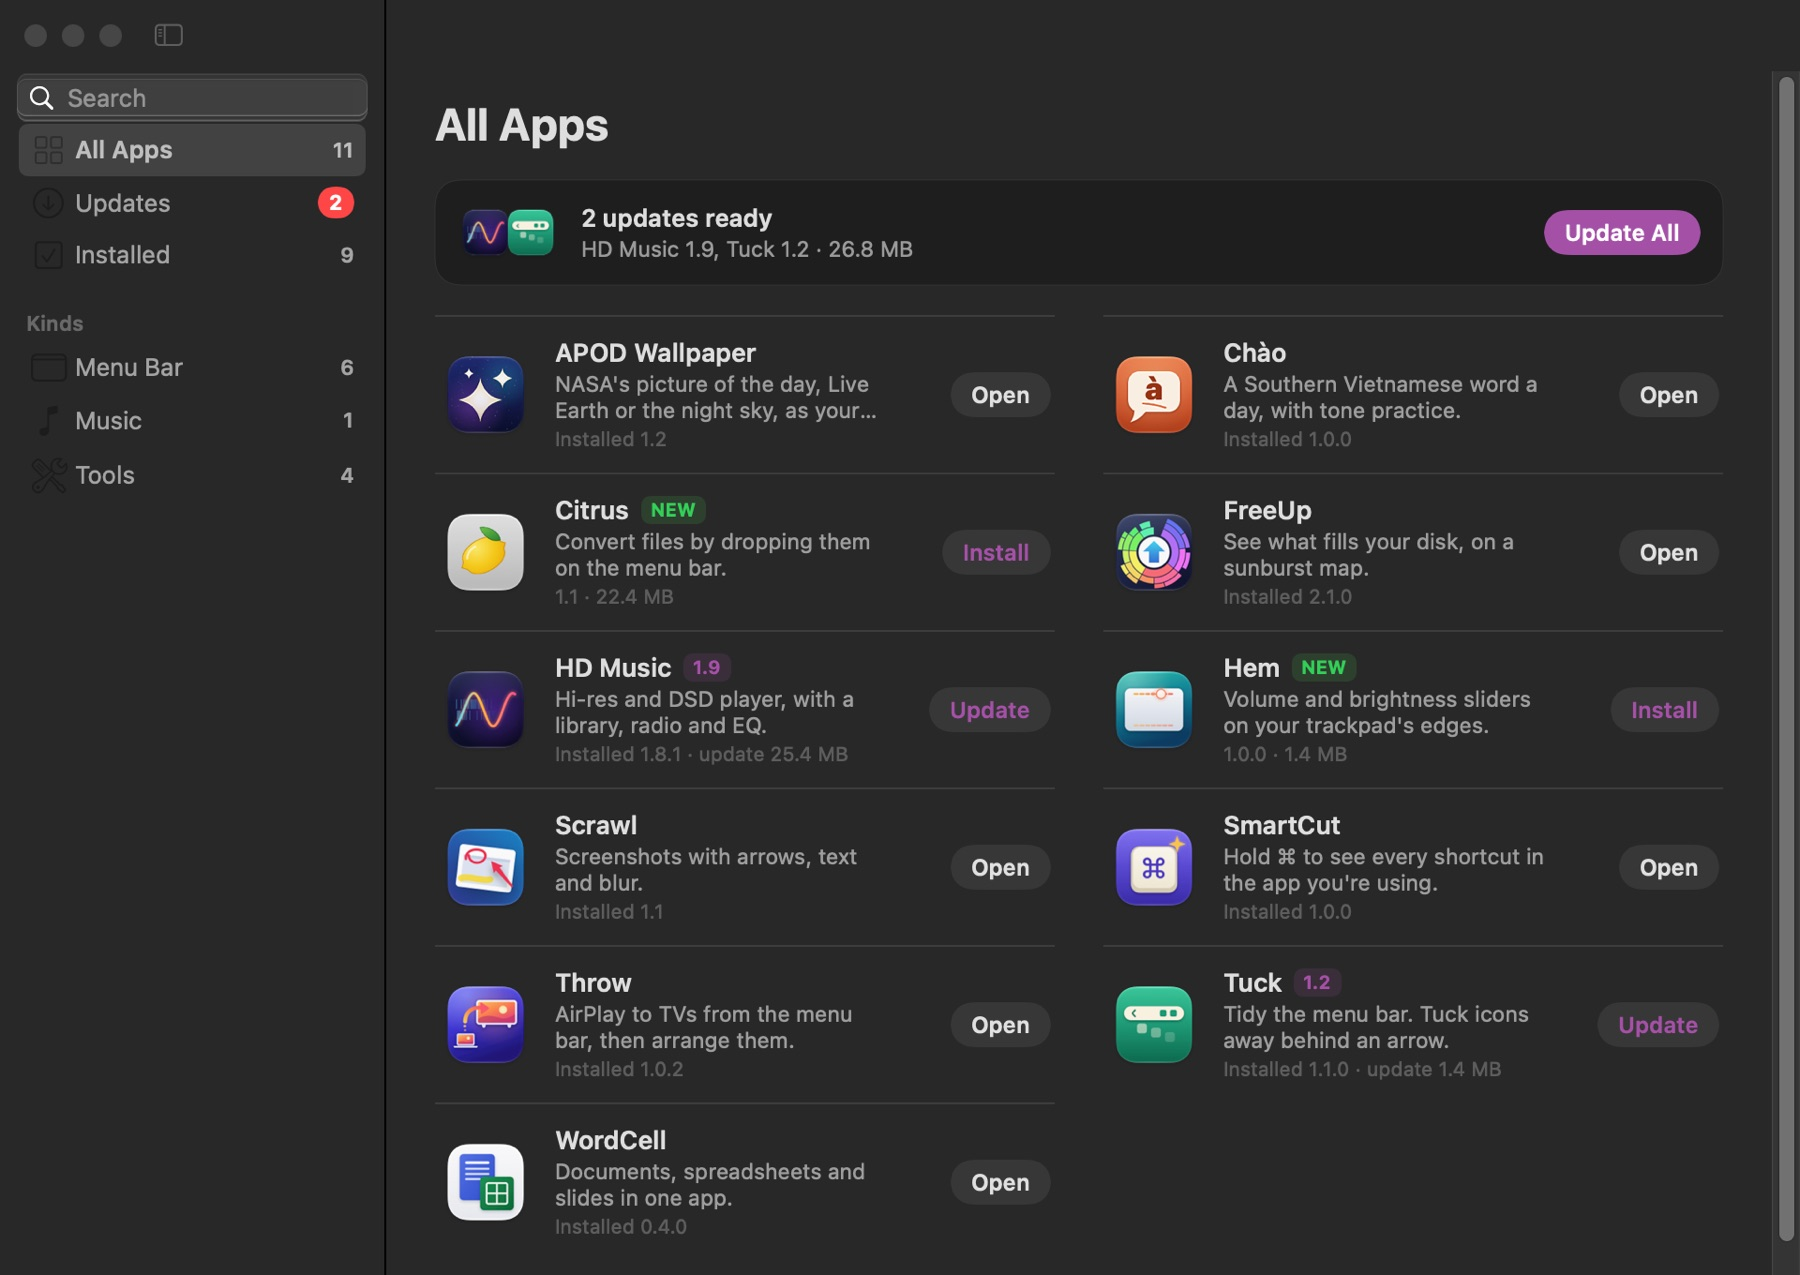
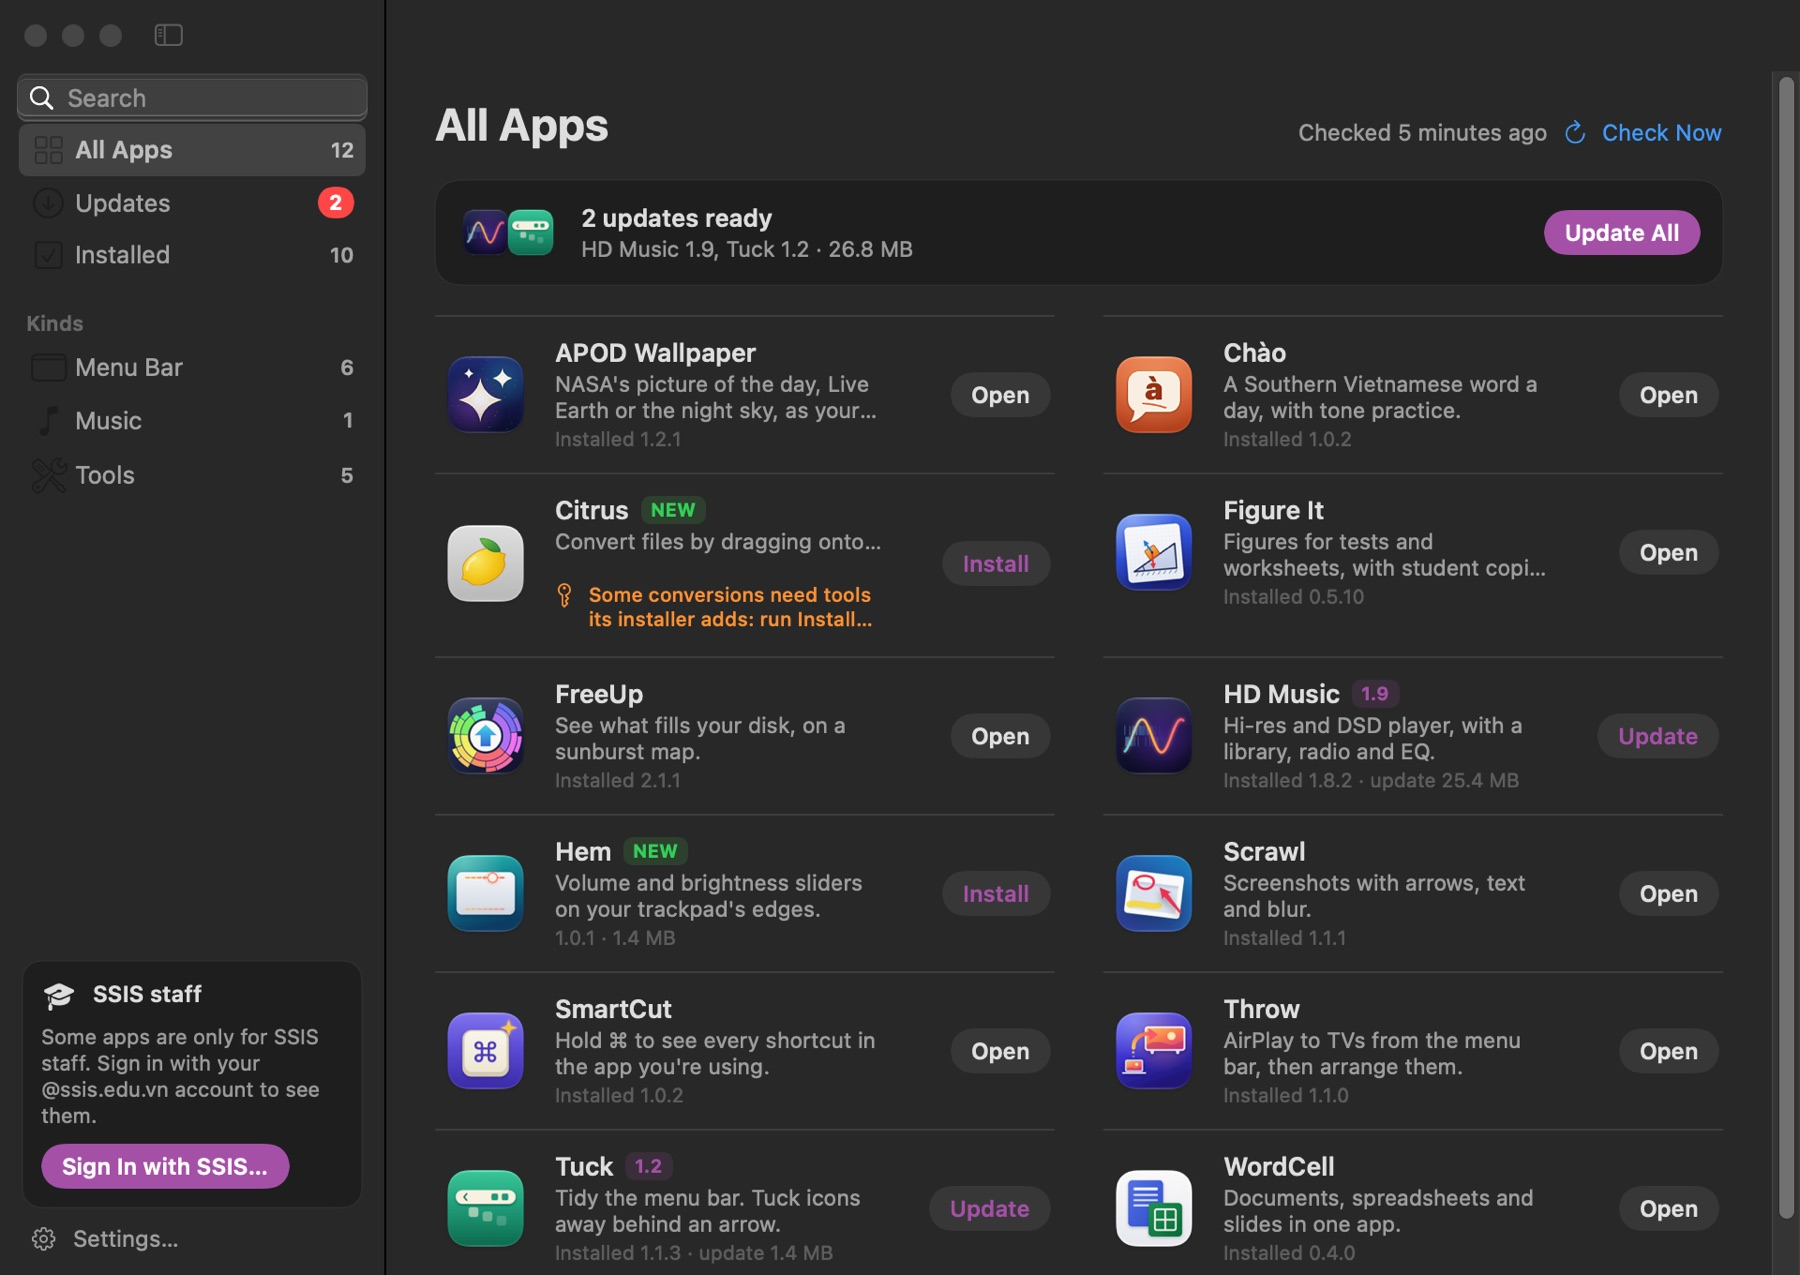
Publish Storefront 1.3.1

diff --git a/apps/storefront/readme.html b/apps/storefront/readme.html
@@ -112,7 +112,7 @@ ol.rm .n{flex:none;width:24px;height:24px;border-radius:12px;display:grid;place-
 <main class="page readme">
   <div class="rmtop"><a class="back" href="./">&#8249; Storefront</a><a href="../../readme/storefront.txt">Plain text</a></div>
   <header class="rmhead"><img class="icon" src="../../icons/storefront.png" alt="" width="64" height="64">
-    <div><h1>Read Me</h1><p>Storefront 1.3.0 · how to install and use it</p></div>
+    <div><h1>Read Me</h1><p>Storefront 1.3.1 · how to install and use it</p></div>
   </header>
   <p class="lead">Storefront puts all of Lennox's free Mac apps in one place. Install any of them in a click, and keep them all up to date from the menu bar.</p>
 <h2>What's in this folder</h2>
@@ -123,9 +123,9 @@ ol.rm .n{flex:none;width:24px;height:24px;border-radius:12px;display:grid;place-
 <ol class="rm"><li><span class="n">1</span><div><p>Double-click <b>Install Storefront.command</b>.</p><p>If macOS says it can't be opened (<b>Apple could not verify…</b>): click Done, open System Settings → Privacy &amp; Security, scroll down and click <b>Open Anyway</b>, then double-click the installer again.</p><p>Or open Terminal, type <code>bash</code> followed by a space, drag <b>Install Storefront.command</b> into the Terminal window, and press Return.</p></div></li><li><span class="n">2</span><div><p>The installer moves Storefront into Applications and opens it.</p></div></li></ol>
 <p>Prefer to do it by hand? Drag Storefront into Applications and open it. The first time, macOS blocks it: go to System Settings → Privacy &amp; Security and click <b>Open Anyway</b>.</p>
 <h2>Using Storefront</h2>
-<ul class="rm"><li>Click the striped awning in the menu bar. A red dot on it means updates are ready: click Update, or Update All.</li><li><b>Open Storefront…</b> shows every app. Click one to see what it does, screenshots and what's new, then Install. Apps you install here open straight away, with no <b>Open Anyway</b> step.</li><li><b>How to use …</b> on an app's page opens its Read Me, laid out with headings and steps. Plain Text opens the file that comes in its zip.</li><li>Storefront checks for updates when it starts, when your Mac wakes, and every six hours, and tells you when there are some. Turn that off in Settings › General.</li><li>Got an idea, or found something wrong? Every app's page has <b>Send feedback</b> at the bottom. It's private and anonymous: only the maker of these apps reads it, and your name and sign-in aren't sent. Send as many as you like.</li><li><b>SSIS staff:</b> Settings › Account › Sign In with SSIS shows the apps that only work at school, on their own SSIS page.</li></ul>
+<ul class="rm"><li>Click the striped awning in the menu bar. A red dot on it means updates are ready: click Update, or Update All.</li><li><b>Open Storefront…</b> shows every app. Click one to see what it does, screenshots and what's new, then Install. Apps you install here open straight away, with no <b>Open Anyway</b> step.</li><li><b>How to use …</b> on an app's page opens its Read Me, laid out with headings and steps. Plain Text opens the file that comes in its zip.</li><li>Storefront checks for updates when it starts, when your Mac wakes, and every six hours, and tells you when there are some. Turn that off in Settings › General.</li><li>Got an idea, or found something wrong? Every app's page has <b>Send feedback</b> at the bottom. It's private and anonymous: only the maker of these apps reads it, and your name and sign-in aren't sent. Send as many as you like.</li><li><b>SSIS staff:</b> click Sign In with SSIS at the bottom left of the Storefront window (it's in Settings › Account too). The apps that only work at school then appear on their own SSIS page.</li></ul>
 <h2>Good to know</h2>
-<ul class="rm"><li><b>Storefront updates itself:</b> Storefront Settings › General › Check for Storefront Updates.</li><li><b>To uninstall:</b> quit Storefront from its menu and drag it from Applications to the Trash. Apps it installed stay.</li><li>Storefront is free and open source. It isn't from the App Store and isn't notarized by Apple, which is why macOS asks you to confirm it the first time.</li></ul>
+<ul class="rm"><li>Can't see the awning in the menu bar? When the menu bar is full, macOS hides new icons first. Open Storefront from Applications instead: everything is in its window, and Settings… is at the bottom left.</li><li><b>Storefront updates itself:</b> Storefront Settings › General › Check for Storefront Updates.</li><li><b>To uninstall:</b> quit Storefront from its menu and drag it from Applications to the Trash. Apps it installed stay.</li><li>Storefront is free and open source. It isn't from the App Store and isn't notarized by Apple, which is why macOS asks you to confirm it the first time.</li></ul>
 
   <p class="rmend"><a class="btn primary" href="./">Storefront in the store</a></p>
 </main>

diff --git a/apps/storefront/index.html b/apps/storefront/index.html
@@ -115,15 +115,15 @@ ol.rm .n{flex:none;width:24px;height:24px;border-radius:12px;display:grid;place-
     <div><h1>Storefront</h1>
     <p class="sum">A menu-bar app that lists every app here, installs any of them without the Open Anyway step, and updates them all.</p>
     
-    <div class="acts"><a class="btn primary big" href="https://github.com/explainsims/store/releases/download/storefront-1.3.0/Storefront-1.3.0.zip">Download</a><small>1.3.0 · 4.1 MB · free</small><a href="#feedback"><svg width="14" height="14" viewBox="0 0 15 15" fill="none" stroke="currentColor" stroke-width="1.4" stroke-linejoin="round" aria-hidden="true"><path d="M2.2 3.6c0-.9.7-1.6 1.6-1.6h7.4c.9 0 1.6.7 1.6 1.6v5.2c0 .9-.7 1.6-1.6 1.6H6.4L3.6 12.8v-2.4c-.8 0-1.4-.7-1.4-1.6z"/></svg>Send Feedback</a></div>
+    <div class="acts"><a class="btn primary big" href="https://github.com/explainsims/store/releases/download/storefront-1.3.1/Storefront-1.3.1.zip">Download</a><small>1.3.1 · 4.1 MB · free</small><a href="#feedback"><svg width="14" height="14" viewBox="0 0 15 15" fill="none" stroke="currentColor" stroke-width="1.4" stroke-linejoin="round" aria-hidden="true"><path d="M2.2 3.6c0-.9.7-1.6 1.6-1.6h7.4c.9 0 1.6.7 1.6 1.6v5.2c0 .9-.7 1.6-1.6 1.6H6.4L3.6 12.8v-2.4c-.8 0-1.4-.7-1.4-1.6z"/></svg>Send Feedback</a></div>
     <p class="tip">Then every app here is one click to install, and they all stay up to date.</p><div class="term"><p>Or paste this into Terminal and press Return. Storefront then opens without the Open Anyway step.</p><div class="cmd"><code>curl -fsSL https://<wbr>store.explainsims.com<wbr>/install.sh | bash</code><button type="button" class="btn copy" data-copy="curl -fsSL https://store.explainsims.com/install.sh | bash">Copy</button></div></div></div>
   </header>
   <section class="facts" aria-label="Facts">
-    <div><small>Version</small><b>1.3.0</b><i>latest</i></div>
+    <div><small>Version</small><b>1.3.1</b><i>latest</i></div>
     <div><small>Size</small><b>4.1 MB</b><i>download</i></div>
     <div><small>Needs</small><b>macOS 14</b><i>or later</i></div>
     <div><small>Chip</small><b>Any Mac</b><i>Apple silicon and Intel</i></div>
-    <div><small>Updated</small><b>9 Nov</b><i>2026</i></div>
+    <div><small>Updated</small><b>10 Nov</b><i>2026</i></div>
   </section>
   <section class="shots">
   <div class="sh"><h2>Screenshots</h2><div class="seg" role="group" aria-label="Appearance"><button type="button" data-mode="light" aria-pressed="true">Light</button><button type="button" data-mode="dark" aria-pressed="false">Dark</button></div></div>
@@ -131,7 +131,7 @@ ol.rm .n{flex:none;width:24px;height:24px;border-radius:12px;display:grid;place-
 </section>
 <dialog class="lightbox" aria-label="Screenshot"><img alt=""><button type="button" class="lb prev" aria-label="Previous">&#8249;</button><button type="button" class="lb next" aria-label="Next">&#8250;</button><button type="button" class="lb x" aria-label="Close">&times;</button></dialog>
   <section class="cols">
-    <div><h2>What's new in 1.3.0</h2><ul><li>SSIS apps now show who they're for (All Staff, HS Staff only).</li></ul></div>
+    <div><h2>What's new in 1.3.1</h2><ul><li>Sign in to SSIS and open Settings from the bottom of the Storefront window, so nothing needs the menu-bar icon (a full menu bar can hide it). Cancel stops a sign-in that never came back from the browser.</li></ul></div>
     <div><h2>Good to know</h2><dl class="kv"><dt>Read Me</dt><dd><a href="readme.html">How to use Storefront</a></dd><dt>First open</dt><dd>macOS asks you to allow it once, under System Settings › Privacy &amp; Security › Open Anyway. Not when you install it from Terminal.</dd></dl></div>
   </section>
   <section class="fbcard" id="feedback"><div class="fbtop"><h2>Send feedback about Storefront</h2><span class="priv"><svg width="12" height="12" viewBox="0 0 12 12" fill="none" stroke="currentColor" stroke-width="1.5" aria-hidden="true"><rect x="2" y="5.2" width="8" height="5.6" rx="1.4"/><path d="M3.8 5.2V3.8a2.2 2.2 0 0 1 4.4 0v1.4"/></svg>Private and anonymous</span></div>

diff --git a/index.html b/index.html
@@ -114,8 +114,8 @@ ol.rm .n{flex:none;width:24px;height:24px;border-radius:12px;display:grid;place-
   <p>Small, original apps for macOS 14 and later, on Apple silicon and Intel. Every one is free.</p></div>
   <div class="get" id="get"><img src="icons/storefront.png" alt="" width="72" height="72">
   <div><b>Get Storefront</b><p>Install any app below in one click, and keep them all up to date.</p>
-  <div class="row"><a class="btn primary" href="https://github.com/explainsims/store/releases/download/storefront-1.3.0/Storefront-1.3.0.zip">Download Storefront</a><a href="apps/storefront/">More about it ›</a></div>
-  <small>1.3.0 · 4.1 MB</small>
+  <div class="row"><a class="btn primary" href="https://github.com/explainsims/store/releases/download/storefront-1.3.1/Storefront-1.3.1.zip">Download Storefront</a><a href="apps/storefront/">More about it ›</a></div>
+  <small>1.3.1 · 4.1 MB</small>
   <details class="term"><summary>Or install it from Terminal</summary>
   <p>Paste this into Terminal and press Return. Storefront then opens without the Open Anyway step.</p><div class="cmd"><code>curl -fsSL https://<wbr>store.explainsims.com<wbr>/install.sh | bash</code><button type="button" class="btn copy" data-copy="curl -fsSL https://store.explainsims.com/install.sh | bash">Copy</button></div></details></div></div>
 </section>
@@ -163,7 +163,7 @@ ol.rm .n{flex:none;width:24px;height:24px;border-radius:12px;display:grid;place-
 </main>
 <footer>
   <p>The first time you open an app downloaded here, macOS asks you to allow it under System Settings › Privacy &amp; Security › Open Anyway, because the apps aren't notarised by Apple. Apps installed through Storefront skip that step, and so does Storefront when you install it from Terminal.</p>
-  <p>Not affiliated with Apple or with the makers of any app these are alternatives to. Updated 9 November 2026.</p>
+  <p>Not affiliated with Apple or with the makers of any app these are alternatives to. Updated 10 November 2026.</p>
 </footer>
 <script>
 (() => {
